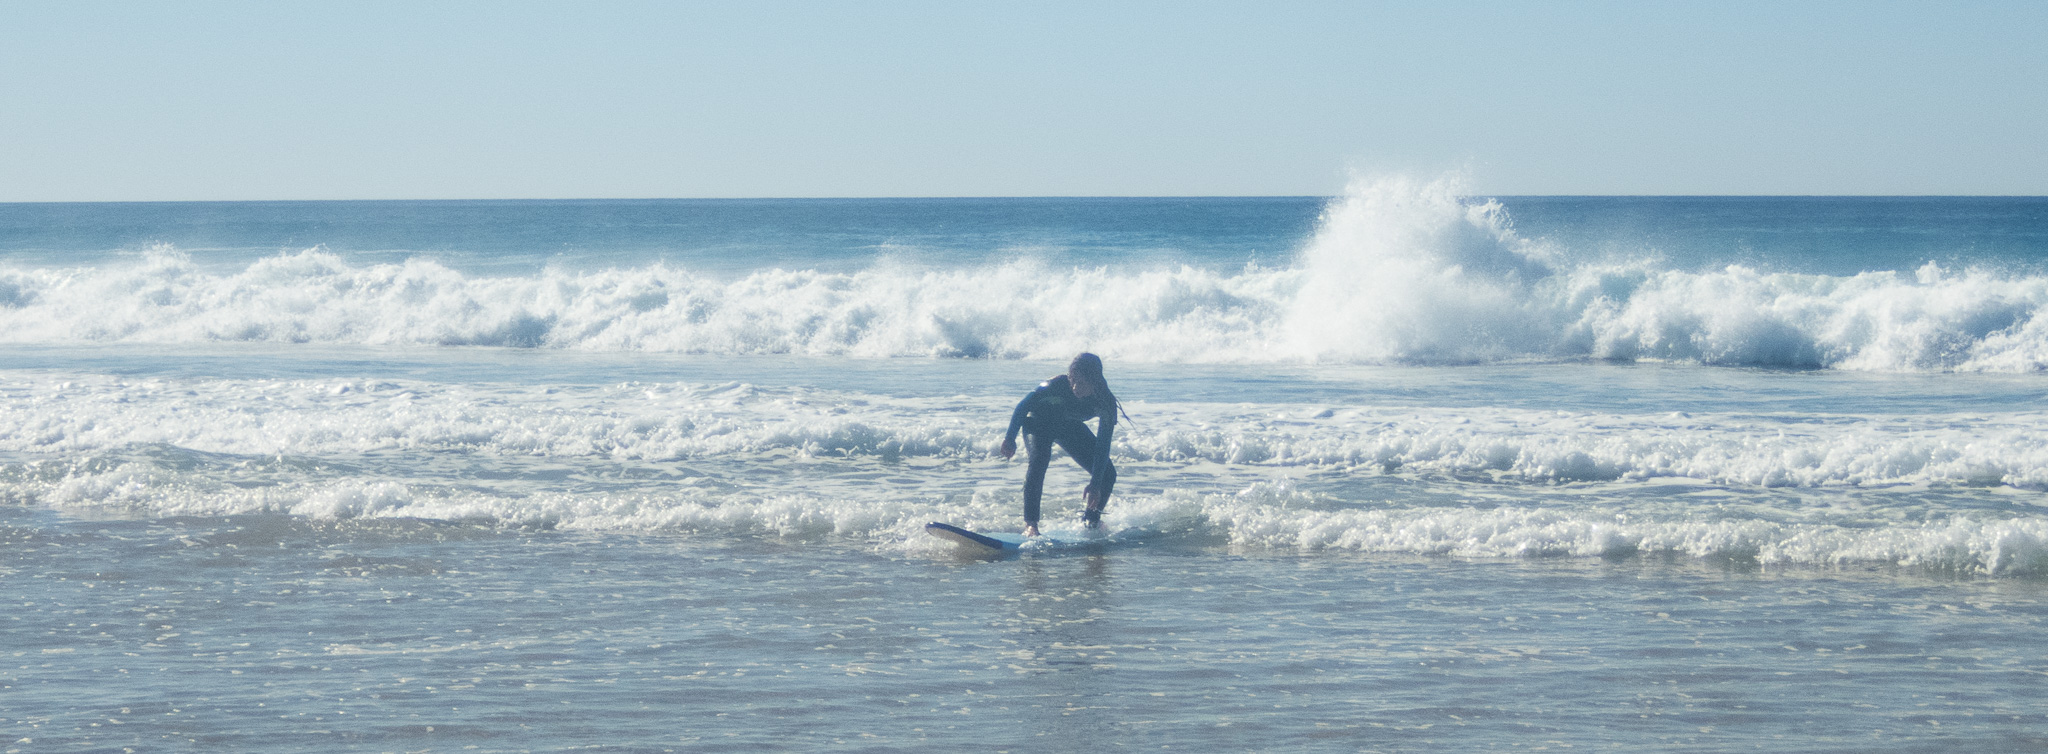
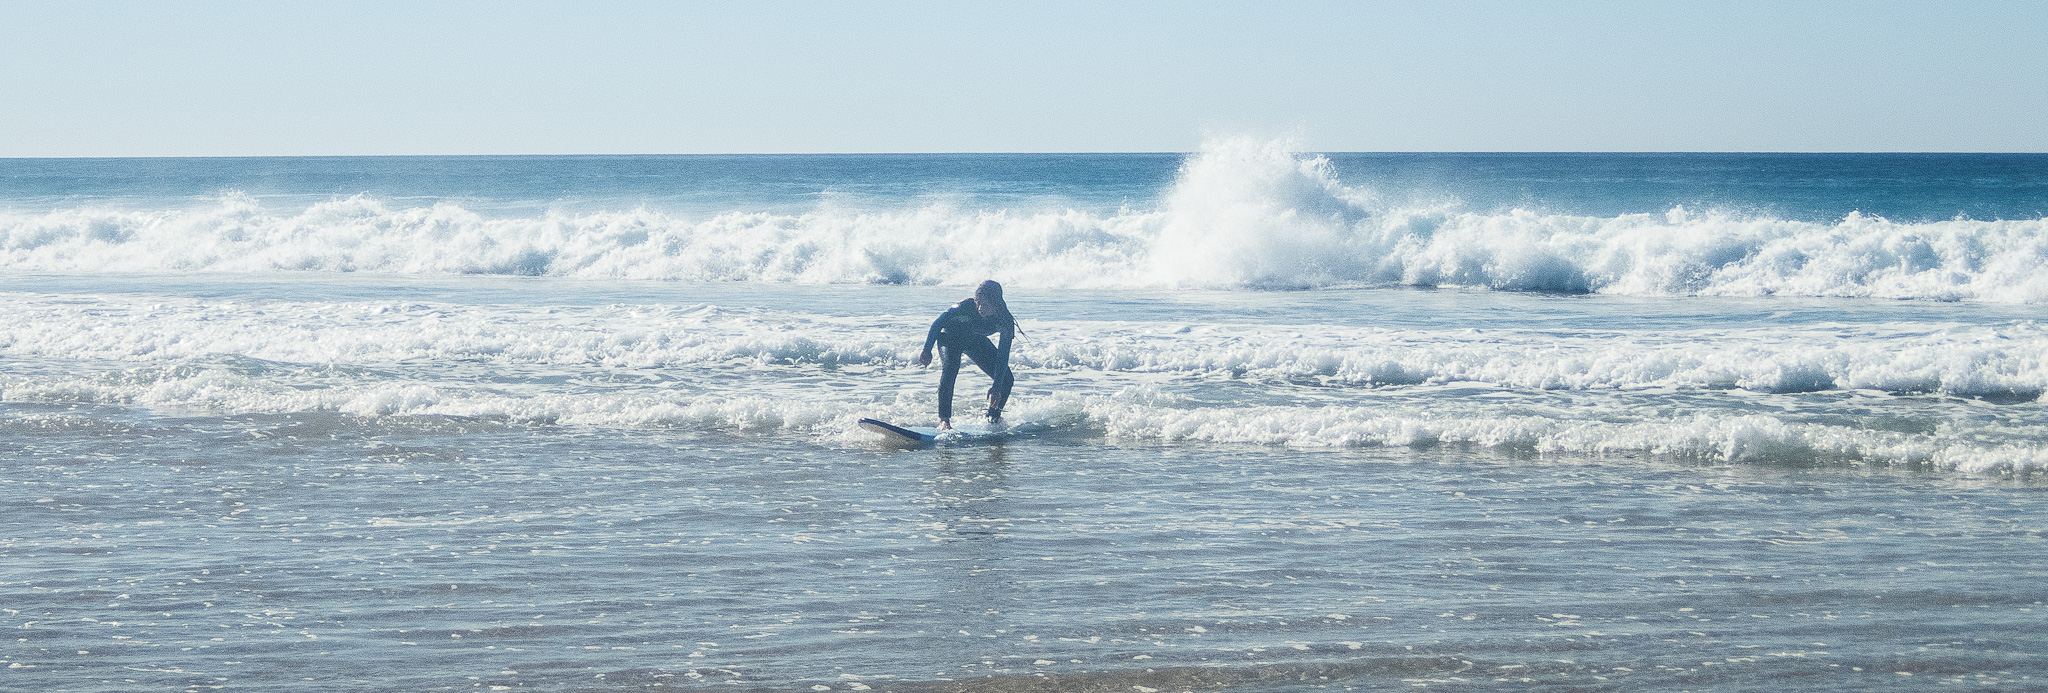
add another image for background and edit css

diff --git a/trips/templates/trips/index.html b/trips/templates/trips/index.html
@@ -2,7 +2,7 @@
 {% load staticfiles %}
 
 {% block body %}
-	<div class="site-header" style="background: url('{% static "trips/images/surfer.jpg" %}');">
+	<div class="site-header" style="background: url('{% static "trips/images/sea.jpg" %}');">
 
 	</div>
 	<div class="container">
@@ -14,7 +14,7 @@
 			<article class="col-md-4">
 				<header>
 					<img src="{{ post.image.url }}" width="320" height="280" />
-					<h2 class="header-title">{{ post.title }}</h2>
+					<h2 class="header-title"><a href="{% url 'trips:post' post.slug %} ">{{ post.title }}</a></h2>
 				</header>
 				<div class="entry-content">
 					<p>{{ post.teaser }}</p>

diff --git a/trips/static/trips/css/style.css b/trips/static/trips/css/style.css
@@ -1,5 +1,6 @@
 h3, h2, body {
-	font-family:  'Lato', sans-serif !important;
+	font-family:  'Fjalla One', sans-serif;
+	text-align: center;
 }
 
 body {
@@ -10,6 +11,18 @@ body {
 	font-size: 21px;
 	margin: 10px;
 	text-transform: uppercase;
+}
+
+.header-title a {
+	color: #222;
+	font-weight: 500;
+	background-color: inherit;
+	text-decoration: none;
+}
+
+.header-title a:hover {
+	color: #2da1c4;
+	font-weight: 500;
 }
 
 .general-header {

diff --git a/poezdka/urls.py b/poezdka/urls.py
@@ -27,7 +27,7 @@ from django.conf import settings
 from django.conf.urls.static import static
 
 urlpatterns = [
-    url(r'^', include('trips.urls')),
+    url(r'^', include('trips.urls', namespace='trips')),
     url(r'^admin/', admin.site.urls),
     # ... the rest of your URLconf goes here ...
 ] + static(settings.MEDIA_URL, document_root=settings.MEDIA_ROOT)
